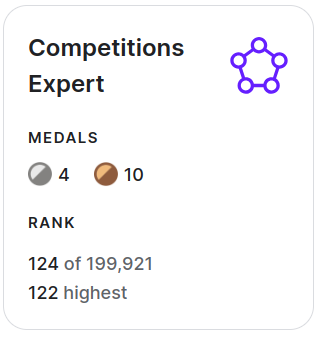
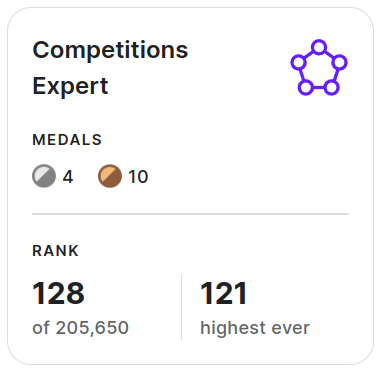
house keeping

diff --git a/README.md b/README.md
@@ -18,7 +18,7 @@ If you are also interested in ML or other state-of-the-art (SOTA) technologies, 
 
 <p align="left"> <img src="assets/kg_profile.png" alt="Kaggle profile" width="200"/> </p>
 
-(124/199,921 as of 16/Feb/2024, Top 0.05%)
+(128/205,650 as of 26/July/2024, Top 0.05%)
 
 Here is my Kaggle profile page: [My Kaggle profile](https://www.kaggle.com/enddl22)
 
